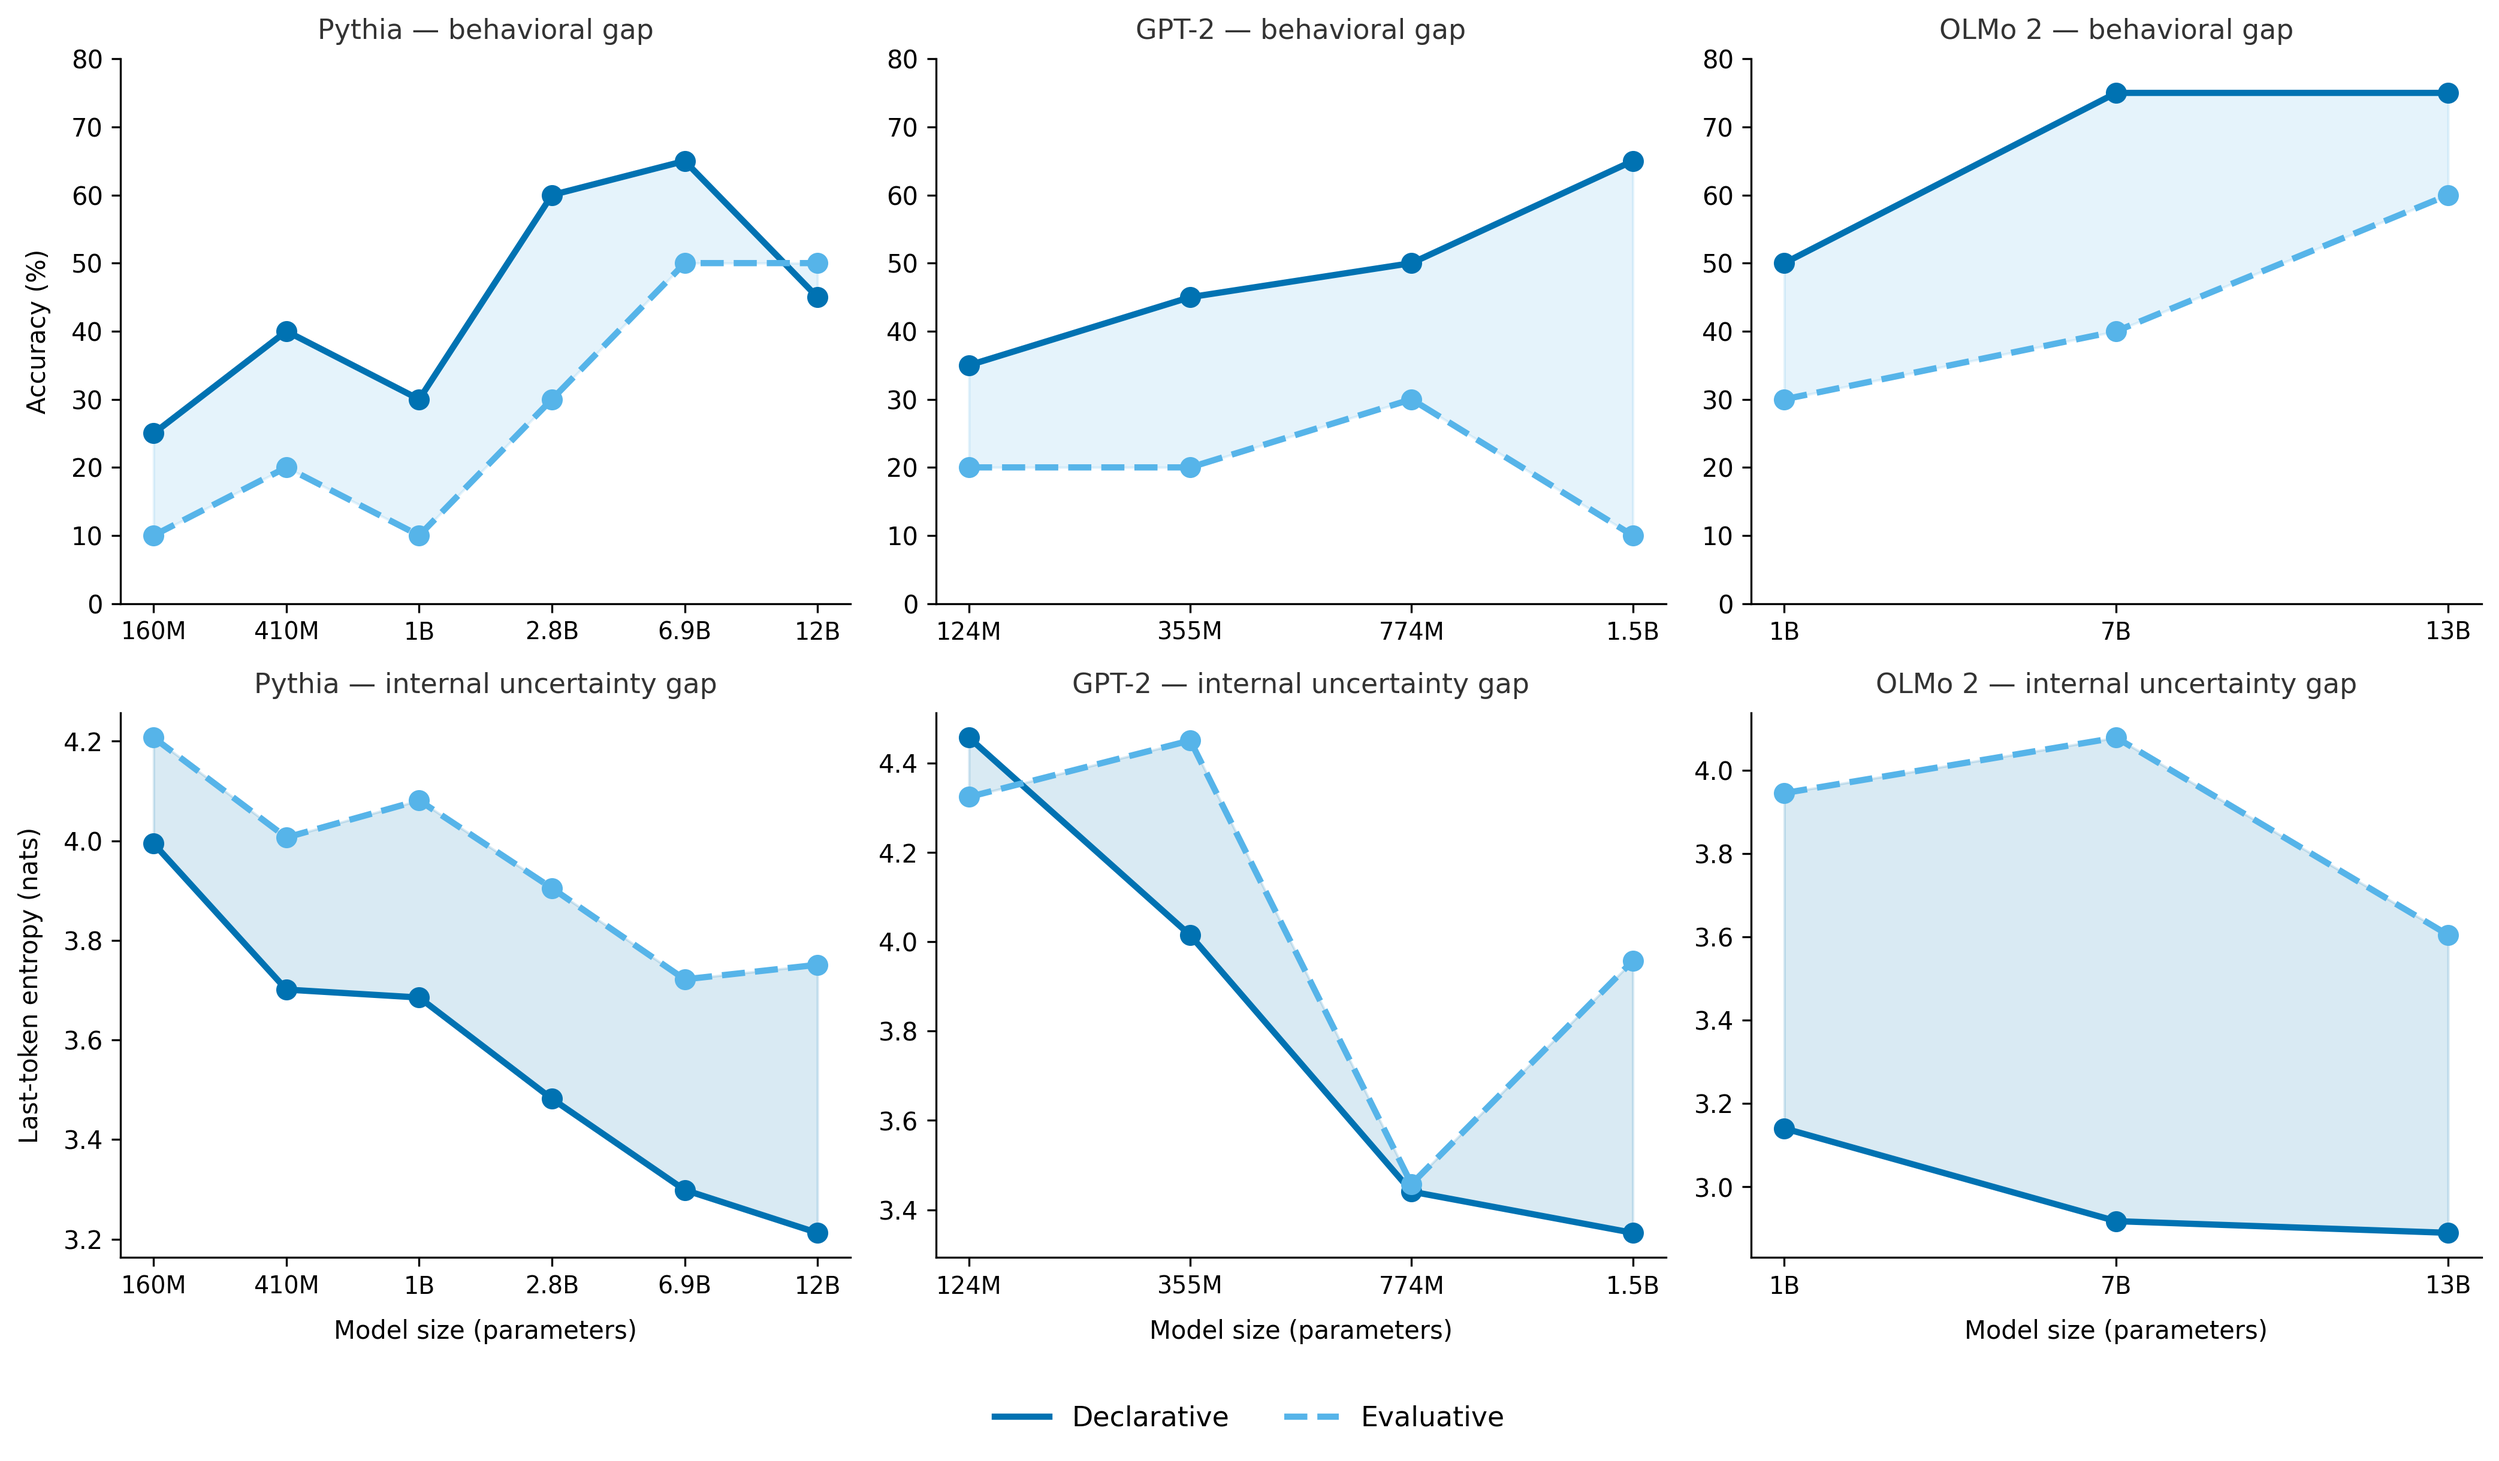
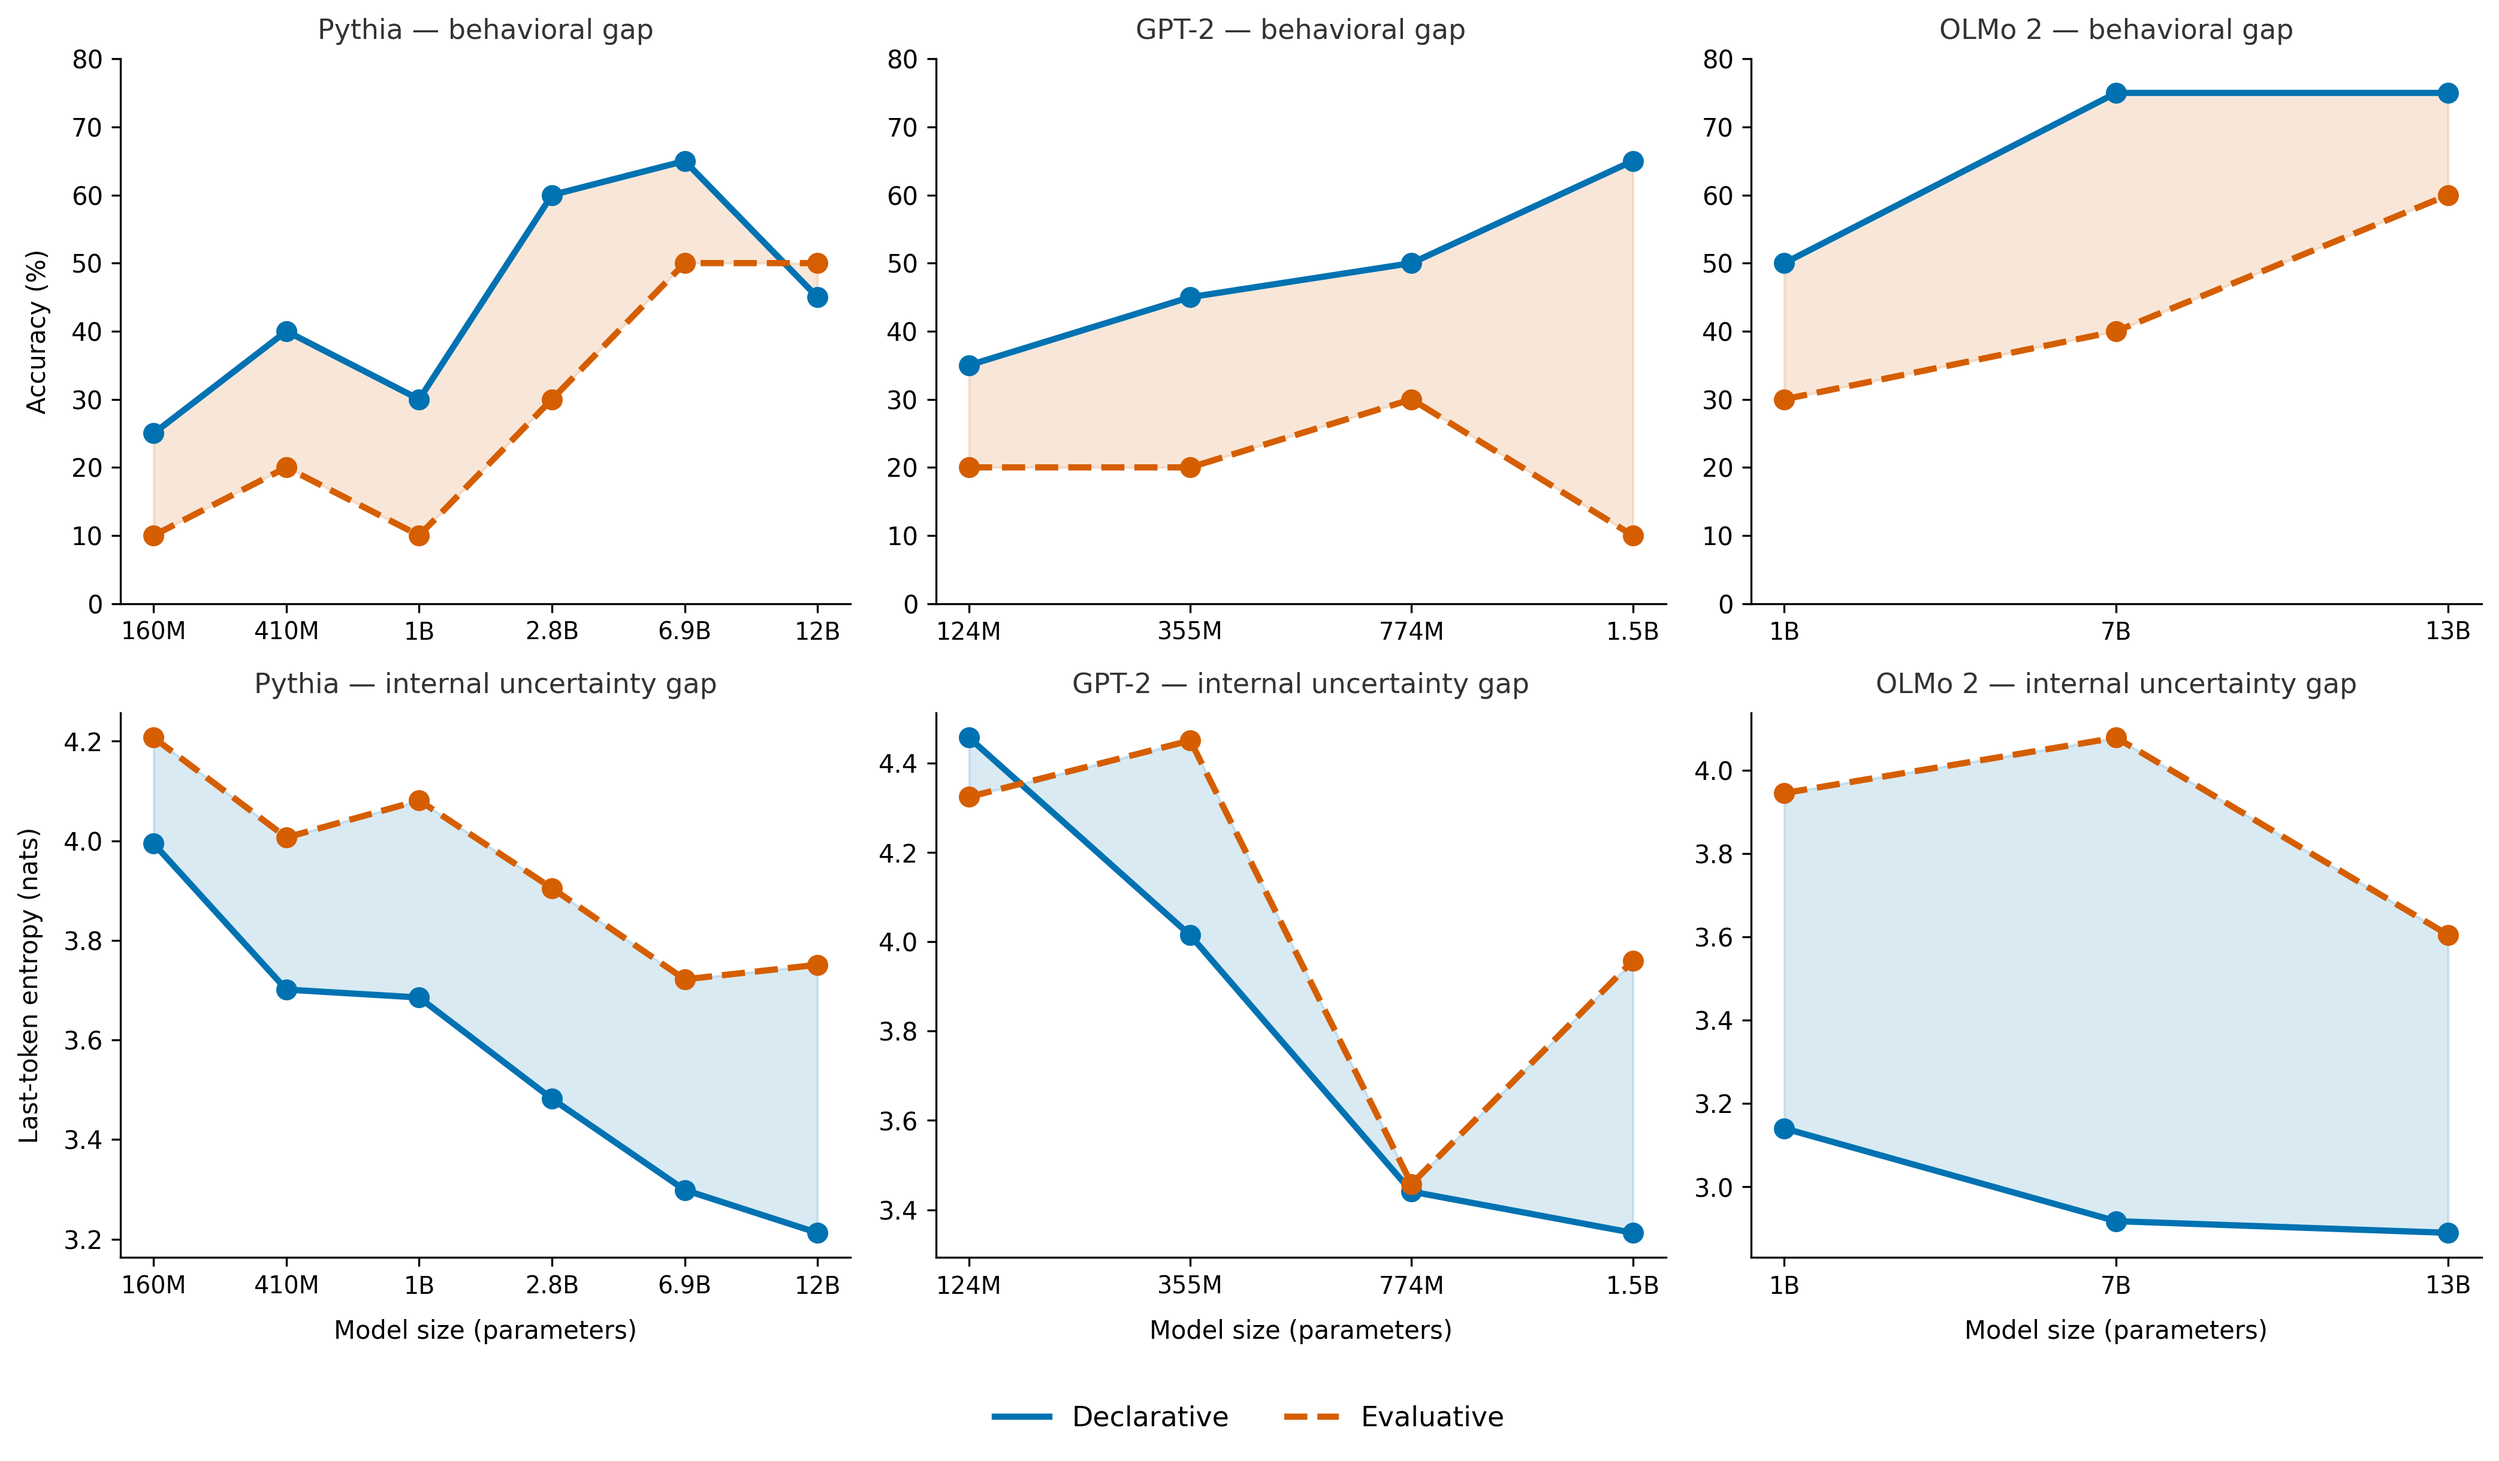
Add Figure 2 (per-model paired collapse); repalette Figure 1
- Figure 2 (new): per-model paired-battery collapse dumbbell — declarative
  pair-concepts passed vs evaluative pair passes, one row per model, family-
  colored, pilot annotated. Fills the formerly-dangling "Figure 2 shows the
  per-model collapse" reference at §4:51 with the figure the prose already
  described — zero prose changes. From paired_gap_summary.csv.
- Figure 1: repalette declarative/evaluative from blue/skyblue to
  blue/vermillion (the two blues were too low-contrast). Same data, same
  layout, same prose — Fig 1 keeps carrying the cross-family entropy the §4
  entropy paragraph references.
- §4: insert Fig 2 image + caption before Fig 3; no existing prose modified.
- figure-map.md rewritten to the placed state; audit confirms Figures 1-6
  all captioned, no dangling references.

gap-scissors / emergence-staircase / fluent-wrongness-raincloud remain built
but unplaced (each needs a prose reference the author will write).

diff --git a/paper/generate-figures/generate-fig-paired-collapse.py b/paper/generate-figures/generate-fig-paired-collapse.py
@@ -1,0 +1,99 @@
+#!/usr/bin/env python3
+"""
+Figure 2 (Section 4): the per-model paired-battery collapse.
+
+One dumbbell per model: declarative pair-concepts passed (filled, family color)
+vs evaluative PAIR passes (hollow). Every confirmatory model collapses to zero
+evaluative pair-passes regardless of how much it knows declaratively; only the
+development-exposed Pythia-2.8B pilot clears one. Companion to Figure 3 (the full
+cell grid).
+
+Reads:  results/analysis/paired_gap_summary.csv
+Writes: paper/figures/paired-collapse.png
+
+Run:  python paper/generate-figures/generate-fig-paired-collapse.py
+"""
+import sys, os
+sys.path.insert(0, os.path.dirname(__file__))
+from _figstyle import ANALYSIS_DIR, FIGURES_DIR, FAMILY_COLOR, OKABE, apply_style
+import matplotlib.pyplot as plt
+from matplotlib.lines import Line2D
+import pandas as pd
+
+apply_style()
+FIGURES_DIR.mkdir(parents=True, exist_ok=True)
+
+PARAMS = {"124M": 0.124, "160M": 0.16, "355M": 0.355, "410M": 0.41, "774M": 0.774,
+          "1B": 1.0, "1.5B": 1.5, "2.8B": 2.8, "6.9B": 6.9, "7B": 7.0, "12B": 12.0, "13B": 13.0}
+FAM_ORDER = [("pythia", "Pythia"), ("gpt2", "GPT-2"), ("olmo", "OLMo 2")]
+
+
+def make_figure():
+    s = pd.read_csv(ANALYSIS_DIR / "paired_gap_summary.csv")
+    s["p"] = s["scale"].map(PARAMS)
+
+    # Build row order: family blocks (Pythia, GPT-2, OLMo), ascending scale within.
+    rows, ylabels, y = [], [], 0.0
+    ypos = []
+    block_tops = {}
+    for suite, _ in FAM_ORDER:
+        block = s[s.suite == suite].sort_values("p")
+        block_tops[suite] = y + len(block) - 1
+        for _, r in block.iterrows():
+            rows.append(r); ypos.append(y); ylabels.append(r["scale"]); y += 1
+        y += 1.0  # gap between families
+
+    n = len(rows)
+    fig, ax = plt.subplots(figsize=(8.2, 6.2))
+    total = int(rows[0]["n_concepts"])
+
+    for r, yy in zip(rows, ypos):
+        color = FAMILY_COLOR[r["suite"]]
+        decl = int(r["declarative_passes"])
+        evl = int(r["evaluative_pair_passes"])
+        # connecting line = declarative knowledge that fails to apply
+        ax.plot([evl, decl], [yy, yy], color="#cfcfcf", lw=2.2, zorder=1, solid_capstyle="round")
+        ax.scatter(evl, yy, facecolor="white", edgecolor=color, s=55, lw=1.6, zorder=3)
+        ax.scatter(decl, yy, color=color, s=80, zorder=4, edgecolor="white", lw=0.6)
+        if r["is_pilot"]:
+            ax.annotate("pilot (2.8B): the only\nevaluative pair-pass",
+                        xy=(evl, yy), xytext=(2.4, yy + 1.15), fontsize=8, color="#333",
+                        ha="left", va="center",
+                        arrowprops=dict(arrowstyle="->", color="#888", lw=1.0))
+
+    # zero wall
+    ax.axvline(0, color="#999", lw=1.0, ls=":", zorder=0)
+
+    ax.set_yticks(ypos)
+    ax.set_yticklabels(ylabels, fontsize=9)
+    ax.set_ylim(-1, n + (len(FAM_ORDER) - 1) + 0.5)
+    ax.invert_yaxis()
+    ax.set_xlim(-0.4, total + 0.3)
+    ax.set_xticks(range(0, total + 1))
+    ax.set_xlabel(f"Concepts passed (of {total} paired concepts)", fontsize=10.5, labelpad=8)
+
+    # family group labels
+    for suite, label in FAM_ORDER:
+        yy = min(p for p, r in zip(ypos, rows) if r["suite"] == suite)
+        ax.text(-0.36, yy - 0.7, label, fontsize=10, fontweight="bold",
+                color=FAMILY_COLOR[suite], va="center")
+
+    ax.set_title("Per-model collapse: declarative knowledge present, evaluative application at zero",
+                 fontsize=11.8, pad=12, color="#222")
+
+    leg = [Line2D([0], [0], marker="o", color="w", markerfacecolor="#666", markersize=9,
+                  label="Declarative pair-concepts passed"),
+           Line2D([0], [0], marker="o", color="w", markerfacecolor="white",
+                  markeredgecolor="#666", markersize=9, markeredgewidth=1.6,
+                  label="Evaluative PAIR passes")]
+    ax.legend(handles=leg, frameon=False, fontsize=9, loc="lower right")
+
+    fig.tight_layout()
+    out = FIGURES_DIR / "paired-collapse.png"
+    fig.savefig(out, dpi=300, bbox_inches="tight")
+    plt.close(fig)
+    print(f"Saved: {out} | models: {n}")
+
+
+if __name__ == "__main__":
+    make_figure()

diff --git a/paper/generate-figures/generate-fig-gap-behavioral-internal.py b/paper/generate-figures/generate-fig-gap-behavioral-internal.py
@@ -41,9 +41,9 @@ okabe_ito = {
     "red":       "#D55E00",
 }
 
-# Paper-wide meaning: blue/skyblue = the declarative/evaluative pair.
+# Paper-wide meaning: blue/vermillion = the declarative/evaluative pair.
 DECL_COLOR = okabe_ito["blue"]      # declarative: solid
-EVAL_COLOR = okabe_ito["skyblue"]   # evaluative: dashed
+EVAL_COLOR = okabe_ito["red"]       # evaluative: dashed (vermillion; was skyblue — too low-contrast)
 
 available_fonts = [f.name for f in fm.fontManager.ttflist]
 FONT = "Atkinson Hyperlegible" if "Atkinson Hyperlegible" in available_fonts else "DejaVu Sans"

diff --git a/paper/generate-figures/figure-map.md b/paper/generate-figures/figure-map.md
@@ -3,25 +3,24 @@
 Each figure is generated by a script from CSVs under `results/` — never hand-edited.
 Regenerate with `python paper/generate-figures/<script>.py`.
 
-## Figure program (one per substantive section + intro)
+## Placed in the manuscript (reading order)
 
-| Section | Figure (PNG) | Script | Status |
-| --- | --- | --- | --- |
-| Introduction | `gap-scissors.png` | `generate-fig-gap-scissors.py` | **new** — behavior-only declarative/evaluative gap by family |
-| §3 Methods | _(design schematic)_ | _pending_ | planned — experimental-design diagram |
-| §4 Behavioral gap | `emergence-staircase.png` | `generate-fig-emergence-staircase.py` | **new** — replaces the paired-battery heatmap |
-| §4 Behavioral gap | `fluent-wrongness-raincloud.png` | `generate-fig-fluent-wrongness-raincloud.py` | **new** — uncertainty side of the gap |
-| §5 Binding | `binding-vs-accuracy.png` | `generate-fig-binding-vs-accuracy.py` | keep |
-| §5 Binding | `binding-frequency-forest.png` | `generate-fig-binding-frequency-forest.py` | keep |
-| §6 Frequency | `frequency-floor.png` | `generate-fig-frequency-floor.py` | keep |
+| # | Figure (PNG) | Script | Section | Note |
+| --- | --- | --- | --- | --- |
+| 1 | `gap-behavioral-internal.png` | `generate-fig-gap-behavioral-internal.py` | Intro | accuracy + entropy, all families; repaletted to blue/vermillion |
+| 2 | `paired-collapse.png` | `generate-fig-paired-collapse.py` | §4 | **new** — per-model paired collapse; fills the formerly-dangling Fig 2 slot |
+| 3 | `paired-battery-grid.png` | `generate-fig-paired-battery-grid.py` | §4 | the full cell grid (heatmap) |
+| 4 | `binding-vs-accuracy.png` | `generate-fig-binding-vs-accuracy.py` | §5 | |
+| 5 | `binding-frequency-forest.png` | `generate-fig-binding-frequency-forest.py` | §5 | |
+| 6 | `frequency-floor.png` | `generate-fig-frequency-floor.py` | §6 | |
 
-## Superseded (still on disk; manuscript references not yet migrated)
+## Built, not yet placed (need a prose reference the author will write)
 
-- `gap-behavioral-internal.png` (`generate-fig-gap-behavioral-internal.py`) — its
-  behavior row → `gap-scissors.png`; its entropy row → `fluent-wrongness-raincloud.png`.
-- `paired-battery-grid.png` (`generate-fig-paired-battery-grid.py`) — the heatmap the
-  `emergence-staircase.png` replaces.
-- `introduction-knowledge-use-gap.png` (`generate-fig-introduction-gap.py`) — earlier
-  intro gap figure; superseded by `gap-scissors.png` if adopted.
+- `gap-scissors.png` (`generate-fig-gap-scissors.py`) — behavior-only gap; its role is
+  currently carried by Fig 1's top row. Kept for a possible future split.
+- `emergence-staircase.png` (`generate-fig-emergence-staircase.py`) — per-concept
+  first-emergence by family; candidate for §4 near the per-concept trajectory (Table 2).
+- `fluent-wrongness-raincloud.png` (`generate-fig-fluent-wrongness-raincloud.py`) —
+  Pythia correct-vs-incorrect entropy distributions; entropy prose is currently frozen.
 
-Do not delete these until the section prose stops referencing them (CLAIMS/build gate).
+Do not delete superseded outputs while any section still references them (build gate).

diff --git a/paper/sections/04-the-behavioral-gap.md b/paper/sections/04-the-behavioral-gap.md
@@ -55,6 +55,12 @@ The result is harsher than the pooled gap. Across twelve untouched confirmatory 
 | Confirmatory models | 96 | 35 | 0 | 35 |
 | Pythia-2.8B pilot | 8 | 5 | 1 | 4 |
 
+![Thirteen dumbbell rows grouped by family. For each model a filled marker shows the number of the eight paired concepts passed declaratively, from zero to five, and a hollow marker shows evaluative pair passes. Every hollow marker sits at zero except the Pythia-2.8B pilot at one; the filled markers scatter rightward, so each connecting line is the width of the knowledge that fails to apply.](figures/paired-collapse.png)
+
+::: {.caption}
+Figure 2. Per-model paired-battery collapse. For each model, the filled marker gives declarative pair-concepts passed (of eight) and the hollow marker gives evaluative pair passes. Every confirmatory model reaches zero evaluative pair passes regardless of declarative knowledge; only the development-exposed Pythia-2.8B pilot clears one. Companion to Figure 3.
+:::
+
 ![Grid of eight concepts by thirteen models. Most cells are gray, meaning neither evaluative item was answered correctly; a few are light or dark blue for one correct item. Thirty-five black dots mark cells with a correct declarative response, every one sitting on a cell that fails the evaluative pair. A single black cell, the only pair pass, sits in the pilot column beyond a vertical rule.](figures/paired-battery-grid.png)
 
 ::: {.caption}
